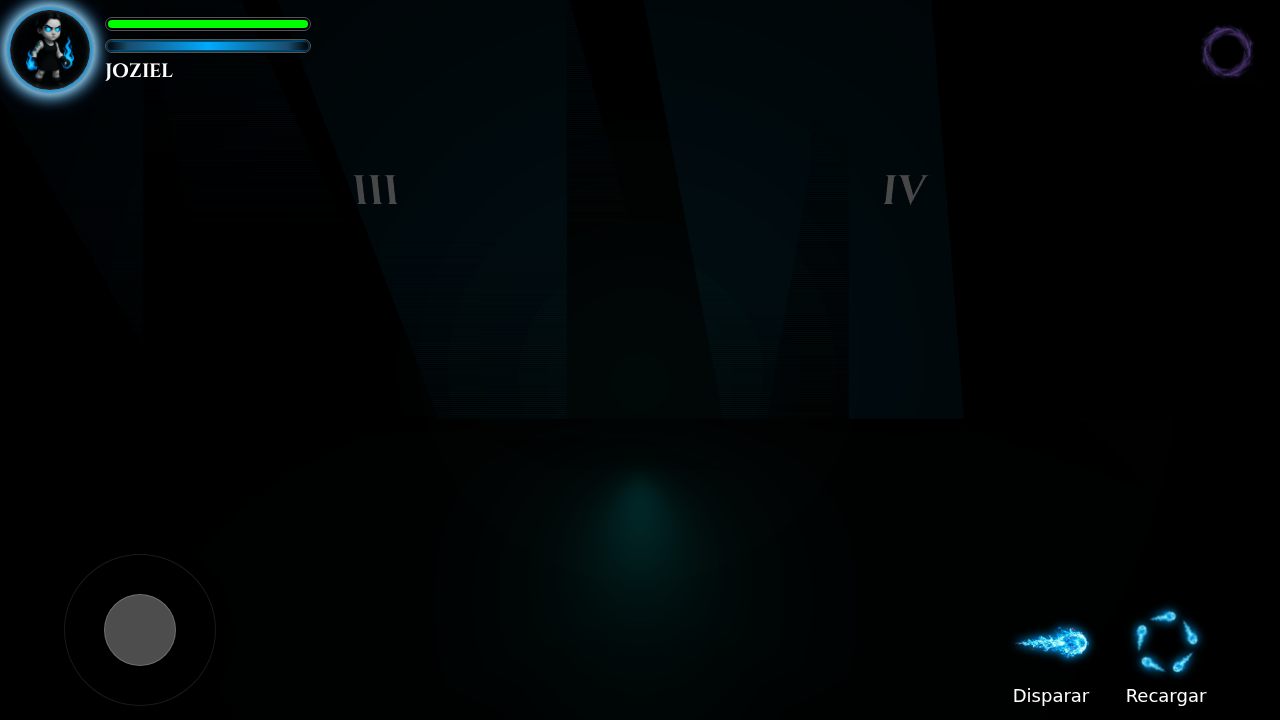
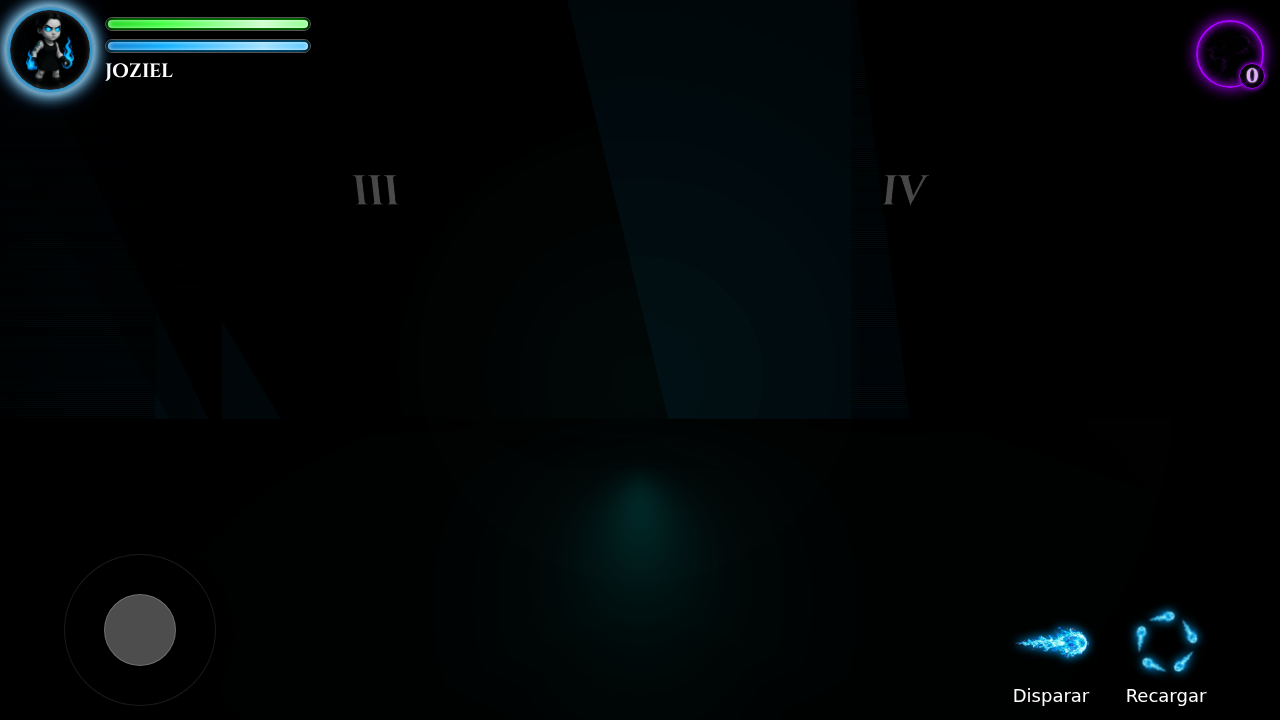
Implement charging sprite animation and adjust aura size/position

diff --git a/Lumenfall-juego/js/game.js b/Lumenfall-juego/js/game.js
@@ -1685,10 +1685,11 @@
                 this.attackBackTexture = textureLoader.load(assetUrls.attackBackSprite);
                 this.jumpTexture = textureLoader.load(assetUrls.jumpSprite);
                 this.jumpBackTexture = textureLoader.load(assetUrls.jumpBackSprite);
+                this.chargingTexture = textureLoader.load(assetUrls.chargingSprite);
 
                 // Configuración de Filtros (Pixel Art)
                 [this.runningTexture, this.runningBackTexture, this.idleTexture, this.idleBackTexture,
-                 this.attackTexture, this.jumpTexture, this.jumpBackTexture].forEach(tex => {
+                 this.attackTexture, this.jumpTexture, this.jumpBackTexture, this.chargingTexture].forEach(tex => {
                     tex.magFilter = THREE.NearestFilter;
                     tex.minFilter = THREE.NearestFilter;
                 });
@@ -1719,6 +1720,9 @@
                 this.attackBackTexture.magFilter = THREE.NearestFilter;
                 this.attackBackTexture.minFilter = THREE.NearestFilter;
                 this.attackBackTexture.repeat.set(1/6, 1);
+
+                // 9. Charging: 4x4 Grid
+                this.chargingTexture.repeat.set(0.25, 0.25);
 
                 // RUN FRAMEMAPS (GRID 8x2)
                 // Convention: Top Row (y=0.5) is frames 0-7, Bottom (y=0) is frame 8+
@@ -1805,7 +1809,7 @@
                 this.auraTexture.magFilter = THREE.NearestFilter;
                 this.auraTexture.minFilter = THREE.NearestFilter;
 
-                this.auraGeometry = new THREE.CylinderGeometry(1.6, 1.6, 5.0, 16, 1, true);
+                this.auraGeometry = new THREE.CylinderGeometry(3.2, 3.2, 5.0, 16, 1, true);
                 this.auraMaterial = new THREE.ShaderMaterial({
                     uniforms: {
                         uTexture: { value: this.auraTexture },
@@ -1822,7 +1826,7 @@
 
                 this.auraMesh = new THREE.Mesh(this.auraGeometry, this.auraMaterial);
                 this.auraMesh.visible = false;
-                this.auraMesh.position.y = 2.5;
+                this.auraMesh.position.y = 1.7;
                 this.auraMesh.position.z = 0.1;
                 this.mesh.add(this.auraMesh);
 
@@ -2210,7 +2214,7 @@
                     this.currentState = 'charging';
                     if (this.chargingState === 'none' || this.chargingState === 'end') {
                         this.chargingState = 'start';
-                        this.currentChargeFrame = 0;
+                        this.currentFrame = -1;
                             playAudio('charge', true, 0.9 + Math.random() * 0.2, 4.0);
                         vibrateGamepad(100, 0.8, 0.8);
                         }
@@ -2226,7 +2230,7 @@
                     // Released button or moving
                     if (this.chargingState === 'start' || this.chargingState === 'loop') {
                         this.chargingState = 'end';
-                        this.currentChargeFrame = 12; // Start of end sequence
+                        this.currentFrame = 11; // Start of end sequence (next frame will be 12)
                         stopAudio('charge');
                     } else if (this.chargingState === 'end') {
                         // Let it play out, but allow movement physics below
@@ -2438,30 +2442,44 @@
                             }
                             break;
                     case 'charging':
-                        // Use Idle Animation for Character Sprite during Charge (Aura handles the visual)
-                        [totalFrames, currentTexture, shadowTexture] = [11, this.idleTexture, null];
-                        isIdleSprite = true;
+                        // Use Charging Animation
+                        currentTexture = this.chargingTexture;
+                        shadowTexture = null;
+                        isGridSprite = false;
+                        isManualUV = true;
+                        currentAnimSpeed = 80; // Standard speed
 
-                        // State Logic (Time-based instead of frame-based)
-                        // Advance timer to handle Start -> Loop -> End transitions
-                        this.chargingTimer += currentAnimSpeed; // approx elapsed time since last frame
+                        // Advance Frame
+                        this.currentFrame++;
 
+                        // State Logic Frame-Based
                         if (this.chargingState === 'start') {
-                            if (this.chargingTimer > 300) { // ~300ms delay
+                            // Frames 0-3
+                            if (this.currentFrame > 3) {
                                 this.chargingState = 'loop';
-                                this.chargingTimer = 0;
+                                this.currentFrame = 4;
                             }
                         } else if (this.chargingState === 'loop') {
-                            // Stay in loop until released
+                            // Frames 4-11
+                            if (this.currentFrame > 11) {
+                                this.currentFrame = 4;
+                            }
                         } else if (this.chargingState === 'end') {
-                            if (this.chargingTimer > 200) { // ~200ms delay
+                            // Frames 12-15
+                            if (this.currentFrame > 15) {
                                 this.chargingState = 'none';
                                 this.currentState = 'idle';
                             }
                         }
 
-                        // Animate Idle
-                        this.currentFrame = (this.currentFrame + 1) % 11;
+                        // UV Mapping for 4x4 Grid
+                        const cFrame = this.currentFrame;
+                        const cCol = cFrame % 4;
+                        const cRow = Math.floor(cFrame / 4);
+
+                        // Row 0 is Top (v=0.75), Row 3 is Bottom (v=0.0)
+                        currentTexture.offset.x = cCol * 0.25;
+                        currentTexture.offset.y = (3 - cRow) * 0.25;
                         break;
 
                         case 'running':

diff --git a/verification/visual_verify_charging.py b/verification/visual_verify_charging.py
@@ -1,0 +1,69 @@
+from playwright.sync_api import sync_playwright
+
+def run(playwright):
+    browser = playwright.chromium.launch(headless=True)
+    page = browser.new_page()
+    # Assuming the game runs on localhost via some server, but I need to serve it first.
+    # If no server running, I might need to start one.
+    # However, for this environment, I can try opening index.html directly if local file access works in headless chrome.
+    import os
+    cwd = os.getcwd()
+    file_url = f"file://{cwd}/Lumenfall-juego/index.html"
+    print(f"Navigating to {file_url}")
+    page.goto(file_url)
+
+    # Wait for game to load (canvas)
+    page.wait_for_selector("#bg-canvas", state="visible")
+
+    # Simulate Start Button Click if present
+    if page.is_visible("#start-button"):
+        print("Clicking start button...")
+        page.click("#start-button")
+
+    # Wait for Play Button if present (menu screen)
+    try:
+        page.wait_for_selector("#play-button", state="visible", timeout=5000)
+        print("Clicking play button...")
+        page.click("#play-button")
+    except:
+        print("Play button not found or not needed")
+
+    # Wait for game to initialize
+    page.wait_for_timeout(2000)
+
+    # Simulate Hold Charge Button
+    print("Holding charge button...")
+    # Trigger keydown or touch event
+    # Game uses "attackHeld" logic in update.
+    # Mapped to btn-attack or Gamepad.
+    # Game also listens to mouse/touch on btn-attack.
+
+    # We can inject JS to simulate controls.attackHeld = true
+    page.evaluate("window.player.isAbsorbing = true;")
+    # Or better, trigger the event listeners
+    # btn-attack mousedown
+    if page.is_visible("#btn-attack"):
+        page.dispatch_event("#btn-attack", "mousedown")
+
+    # Wait 500ms for animation to reach loop
+    page.wait_for_timeout(500)
+
+    # Take Screenshot of loop
+    page.screenshot(path="verification/charging_loop.png")
+    print("Screenshot loop taken")
+
+    # Release button
+    if page.is_visible("#btn-attack"):
+        page.dispatch_event("#btn-attack", "mouseup")
+
+    # Wait 100ms for end sequence
+    page.wait_for_timeout(100)
+
+    # Take Screenshot of end
+    page.screenshot(path="verification/charging_end.png")
+    print("Screenshot end taken")
+
+    browser.close()
+
+with sync_playwright() as playwright:
+    run(playwright)
